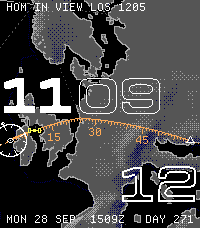
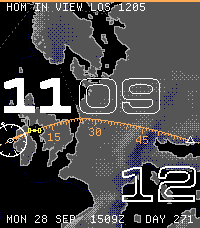
0.5.1: a reel leads each store gallery
Twelve frames of each face, half a second each (tools/gif.mjs, from
tools/render-store.mjs): its views, readouts and the Sun and Moon marked,
across the chart and instrument plates. The stills are drawn again with
the fuel line.

Changed region(s): [[0.0, 0.0, 1.0, 0.0307]]

diff --git a/releases/v0.5.1.md b/releases/v0.5.1.md
@@ -1,0 +1,3 @@
+# Groundtrack 0.5.1
+
+- **The store pages open with a reel.** Each face's gallery now leads with twelve frames at half a second each: the hour chart, the Plotboard, a whole day and a polar chart, the readouts, the Sun and Moon marked, across the plates. The stills show the fuel line as the watch now draws it. Nothing on the watch changes.
